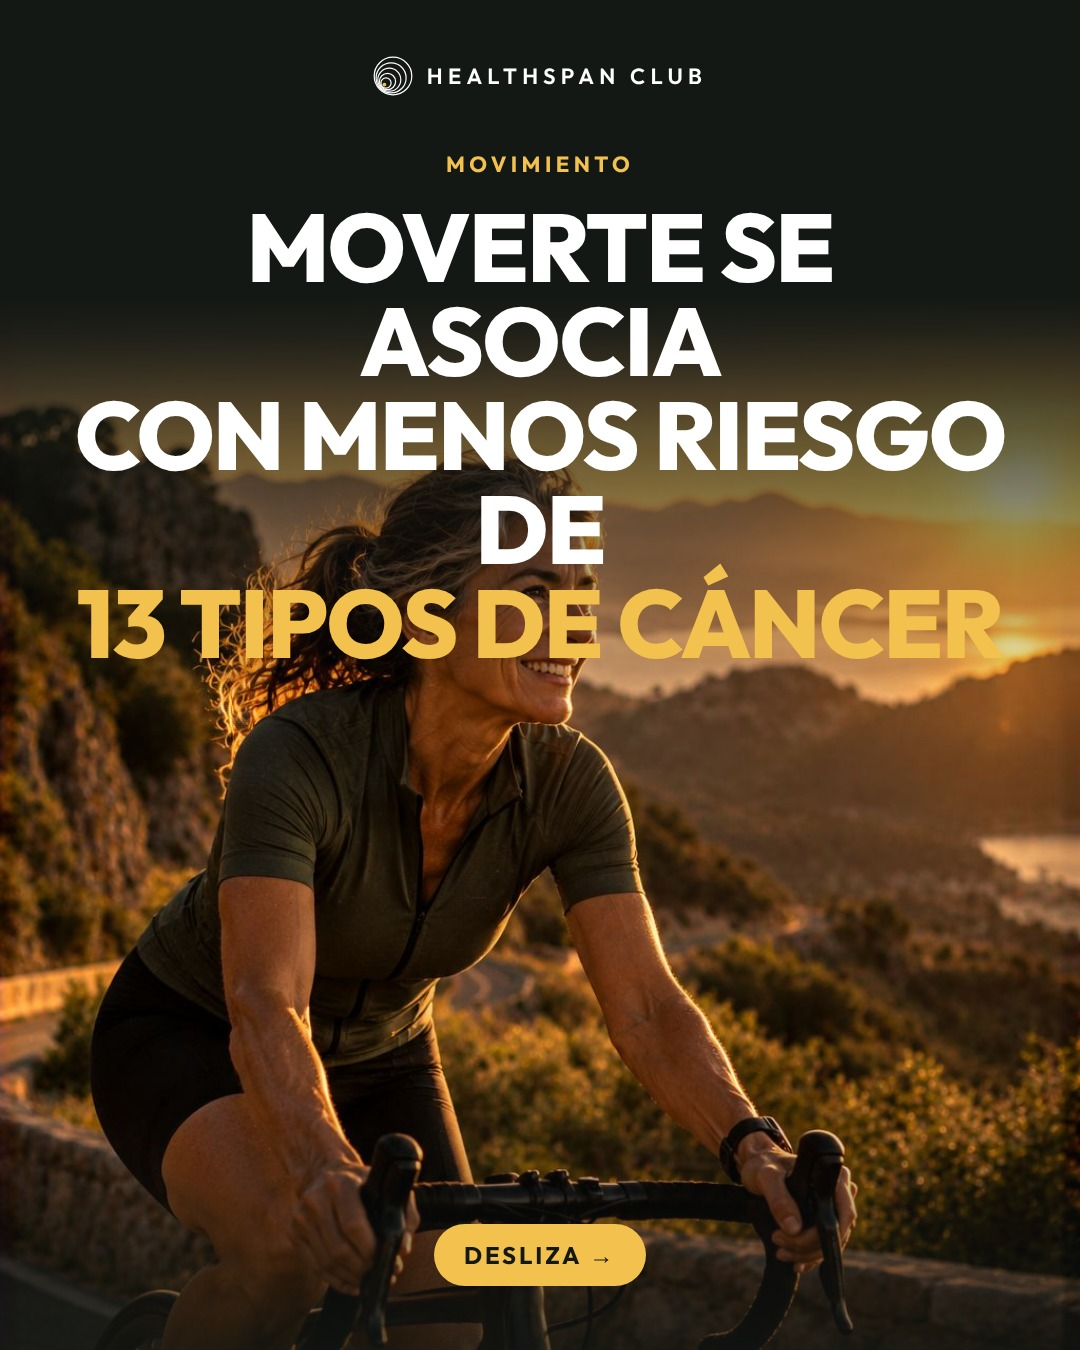
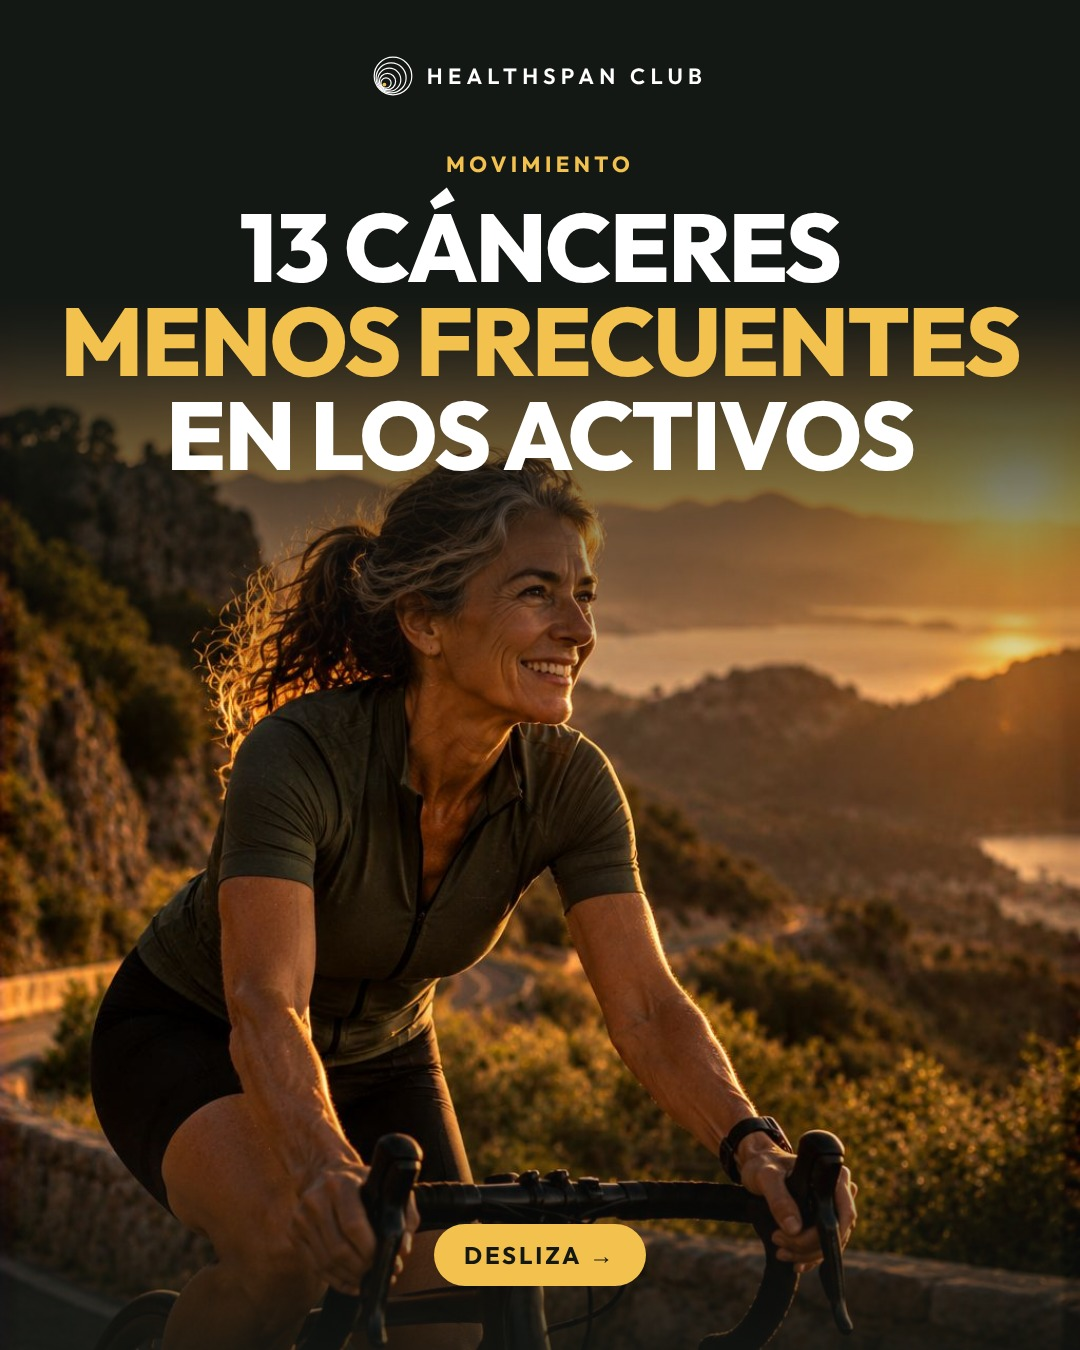
Shorten 102 cover
Claude-Session: https://claude.ai/code/session_0189LKGzZcQmhpSHzyCbdKu4

Changed region(s): [[0.0611, 0.1244, 0.9472, 0.4978]]

diff --git a/content/q_9nov.py b/content/q_9nov.py
@@ -246,7 +246,7 @@ reel("101", "2026-11-19T18:00:00",
      "“A tu edad, nada de pesas”. Mito.\n\nEn el ensayo LIFTMOR, publicado en el Journal of Bone and Mineral Research, participaron 101 mujeres de unos 65 años con baja masa ósea. La mitad entrenó fuerza intensa y supervisada 2 veces por semana, 30 minutos, durante 8 meses. Su densidad ósea en la columna subió un 2,9%, mientras en el grupo control bajó un 1,2%. Solo hubo un efecto adverso leve.\n\nLa clave es la técnica y la supervisión. Si tienes osteoporosis, empieza con un profesional. 🏋♀\n\nEnvíaselo a tu madre.\n\n#longevidad #fuerza #osteoporosis #mitoociencia")
 
 car("102", "2026-11-20T10:00:00",
-    {"kicker": "Movimiento", "title": "Moverte se asocia\ncon menos riesgo de\n*13 tipos de cáncer*"},
+    {"kicker": "Movimiento", "title": "13 cánceres\n*menos frecuentes*\nen los activos"},
     [{"kicker": "El estudio", "title": "1,44 millones\n*de personas*",
       "body": "12 estudios de EE. UU. y Europa compararon la actividad física en el tiempo libre con 26 tipos de cáncer.",
       "source": "Moore et al., JAMA Intern Med, 2016"},
